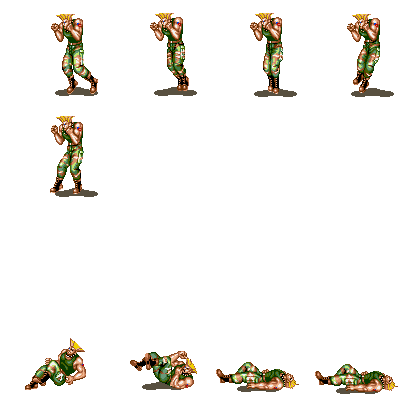
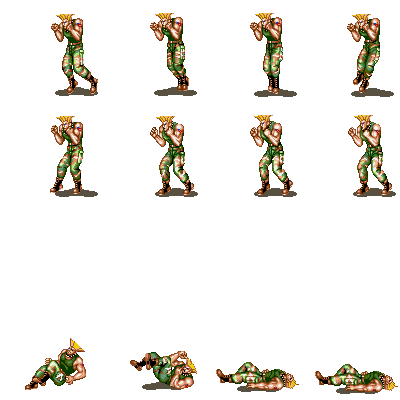
Animation changes

Changed region(s): [[0.36, 0.27, 0.51, 0.51], [0.63, 0.27, 0.75, 0.51], [0.87, 0.27, 0.99, 0.51]]

diff --git a/scripts/script.js b/scripts/script.js
@@ -7,7 +7,7 @@ var LINE_HEIGHT = 25; // height of a single "line" of incoming gestures
 var ENEMY_SCREEN_CROSS_TIME = 6000; // time taken by an enemy crossing the scren
 var PROJECTILE_SCREEN_CROSS_TIME = 1000; //time taken by a projectile crossing the screen
 var ANIMATION_SPEED = {
-    player: 0.03,
+    player: 0.02,
     fireball: 0.025,
     rock: 0.01,
     lightning: 0.02
@@ -40,6 +40,11 @@ var enemySheets = {
                 speed: ANIMATION_SPEED.rock,
                 next: "walk"
             },
+            idle: {
+                frames: [4, 5, 6, 7],
+                speed: ANIMATION_SPEED.rock,
+                next: "idle"
+            },
             die: {
                 frames: [12, 13, 14, 15],
                 speed: ANIMATION_SPEED.rock
@@ -58,6 +63,11 @@ var enemySheets = {
                 speed: ANIMATION_SPEED.fireball,
                 next: "walk"
             },
+            idle: {
+                frames: [5, 6, 7, 8],
+                speed: ANIMATION_SPEED.fireball,
+                next: "idle"
+            },
             die: {
                 frames: [11, 12, 13, 14, 15],
                 speed: ANIMATION_SPEED.fireball
@@ -75,6 +85,11 @@ var enemySheets = {
                 frames: [0, 1, 2, 3, 4],
                 speed: ANIMATION_SPEED.lightning,
                 next: "walk"
+            },
+            idle: {
+                frames: [5, 6, 7],
+                speed: ANIMATION_SPEED.lightning,
+                next: "idle"
             },
             die: {
                 frames: [12, 13, 14, 15],
@@ -273,7 +288,7 @@ function createProjectile(type) {
 function Enemy(hitTime, type, lane) {
     this.enemy = new createjs.Sprite(enemySheets[types[type]]);
     stage.addChild(this.enemy);
-    this.enemy.gotoAndPlay("walk");
+    this.enemy.gotoAndPlay("idle");
     //Update stage will render next frame
     this.hitTime= hitTime;
     this.type= type;
